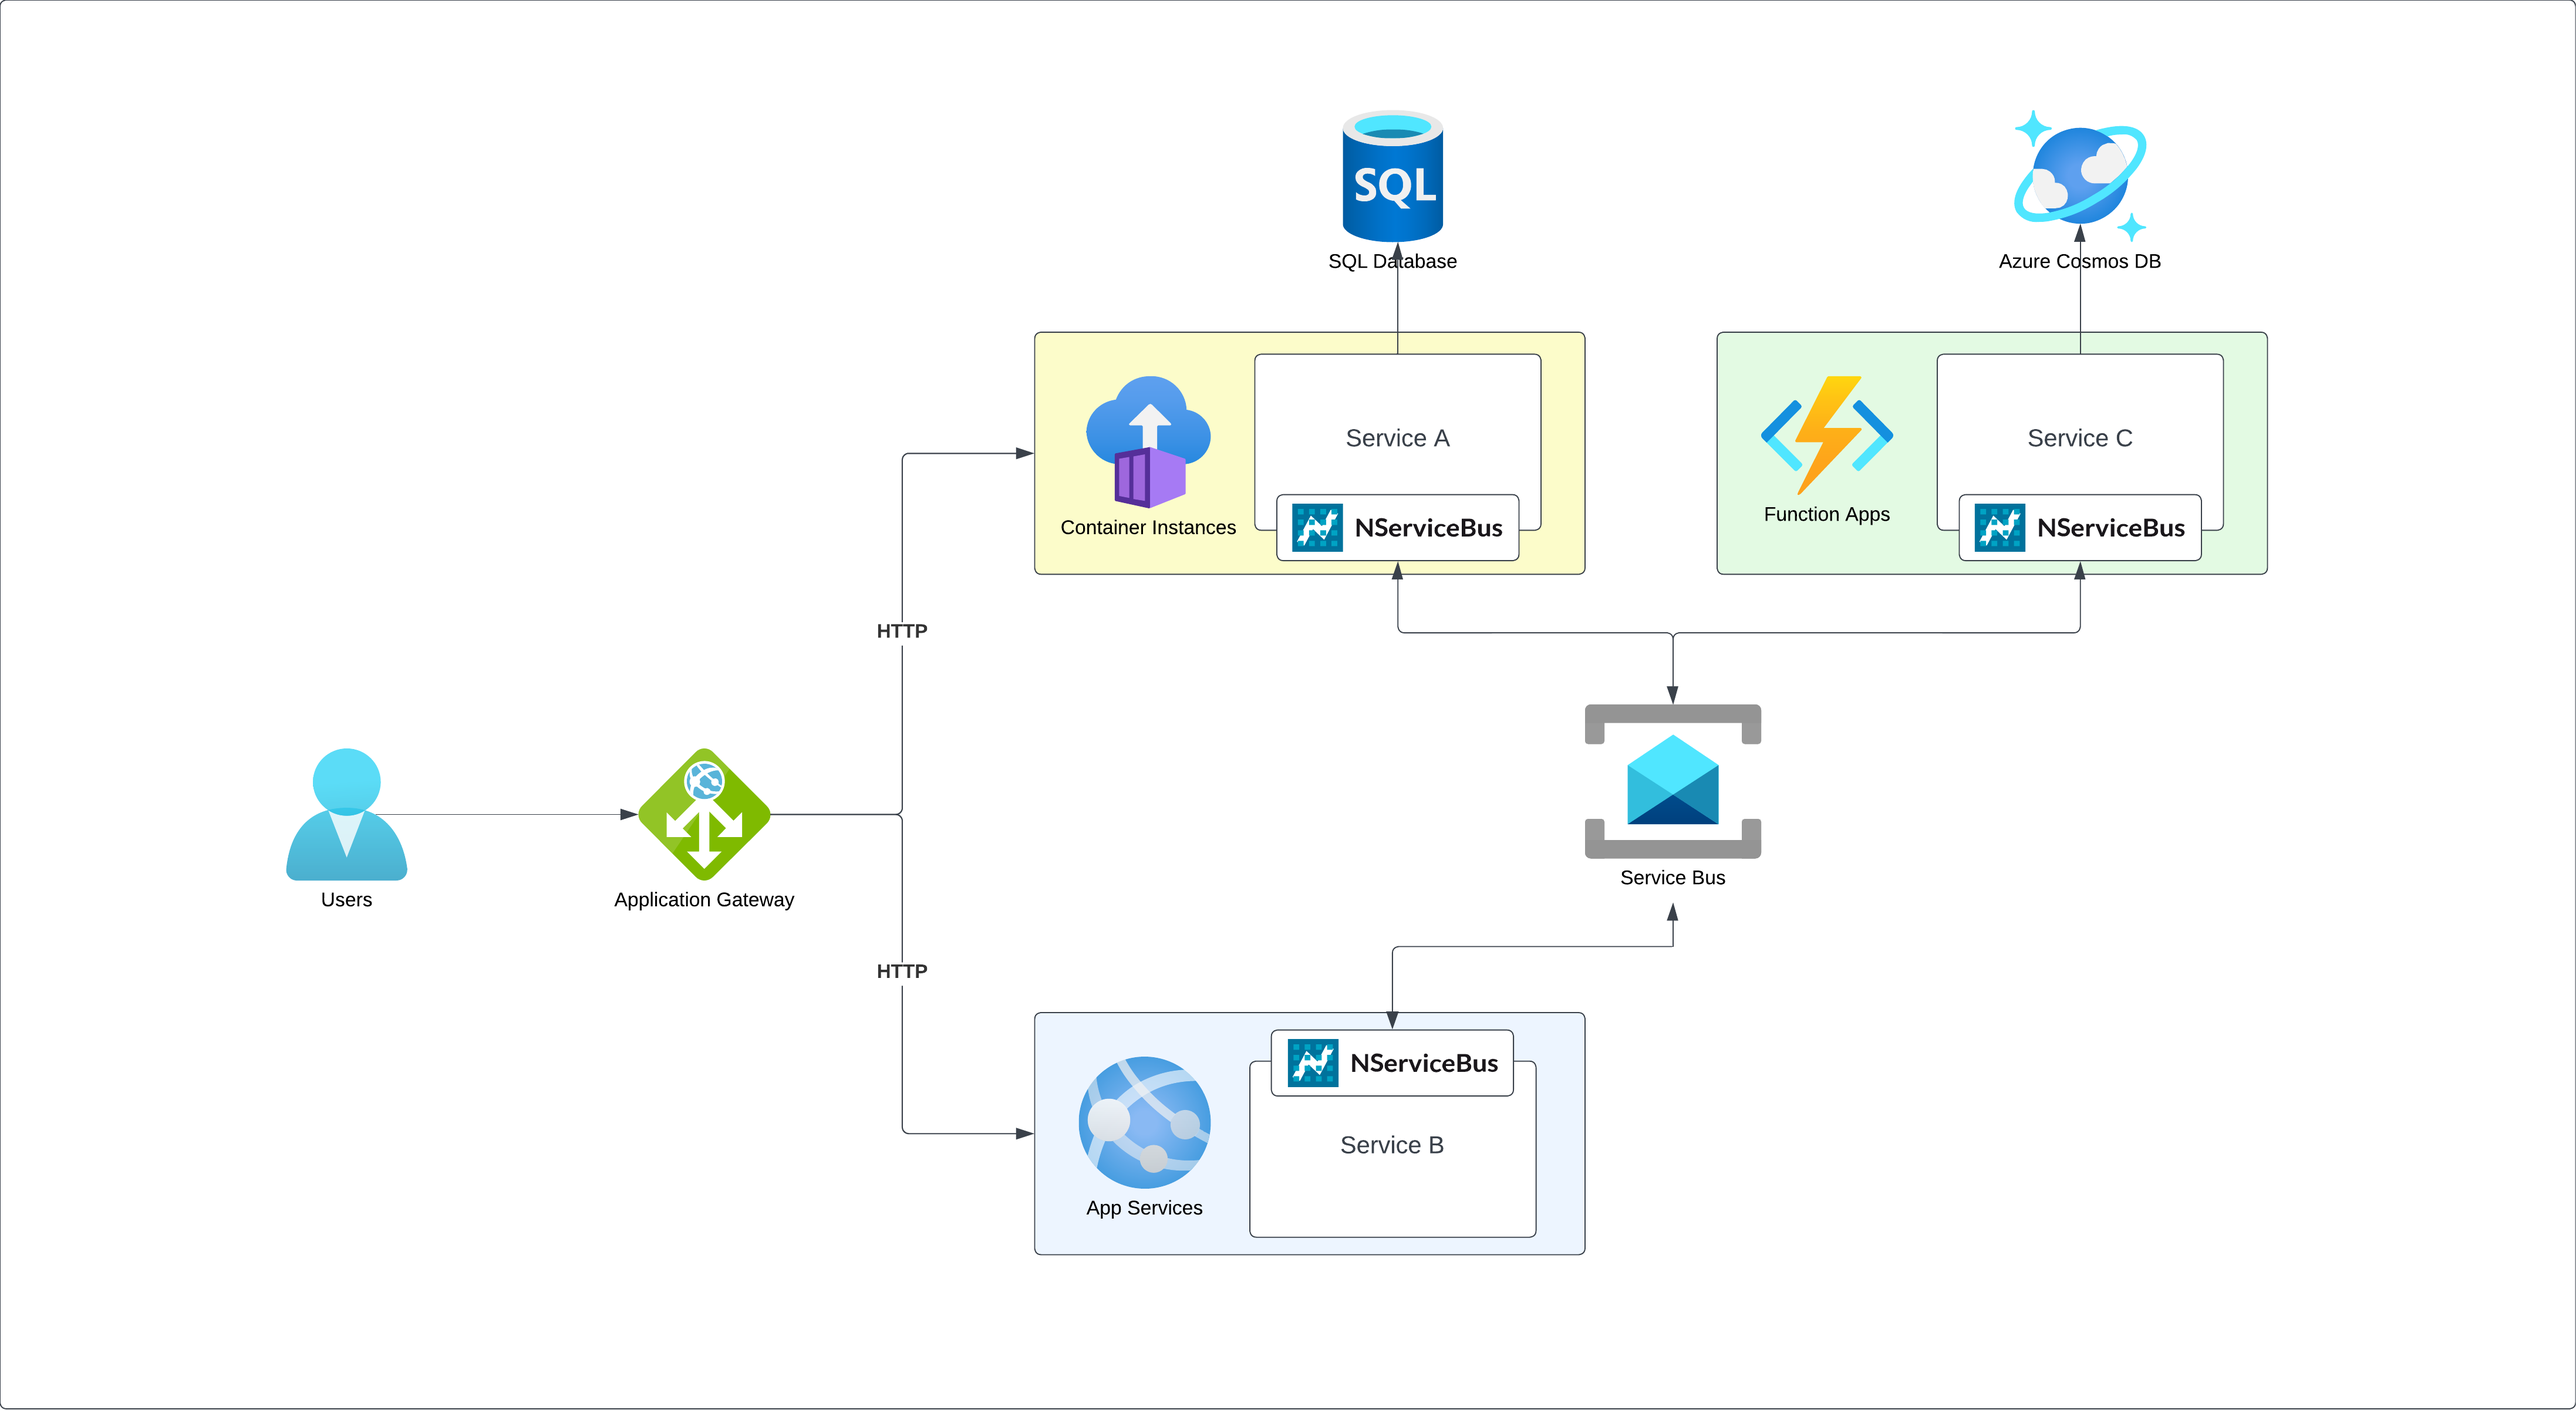
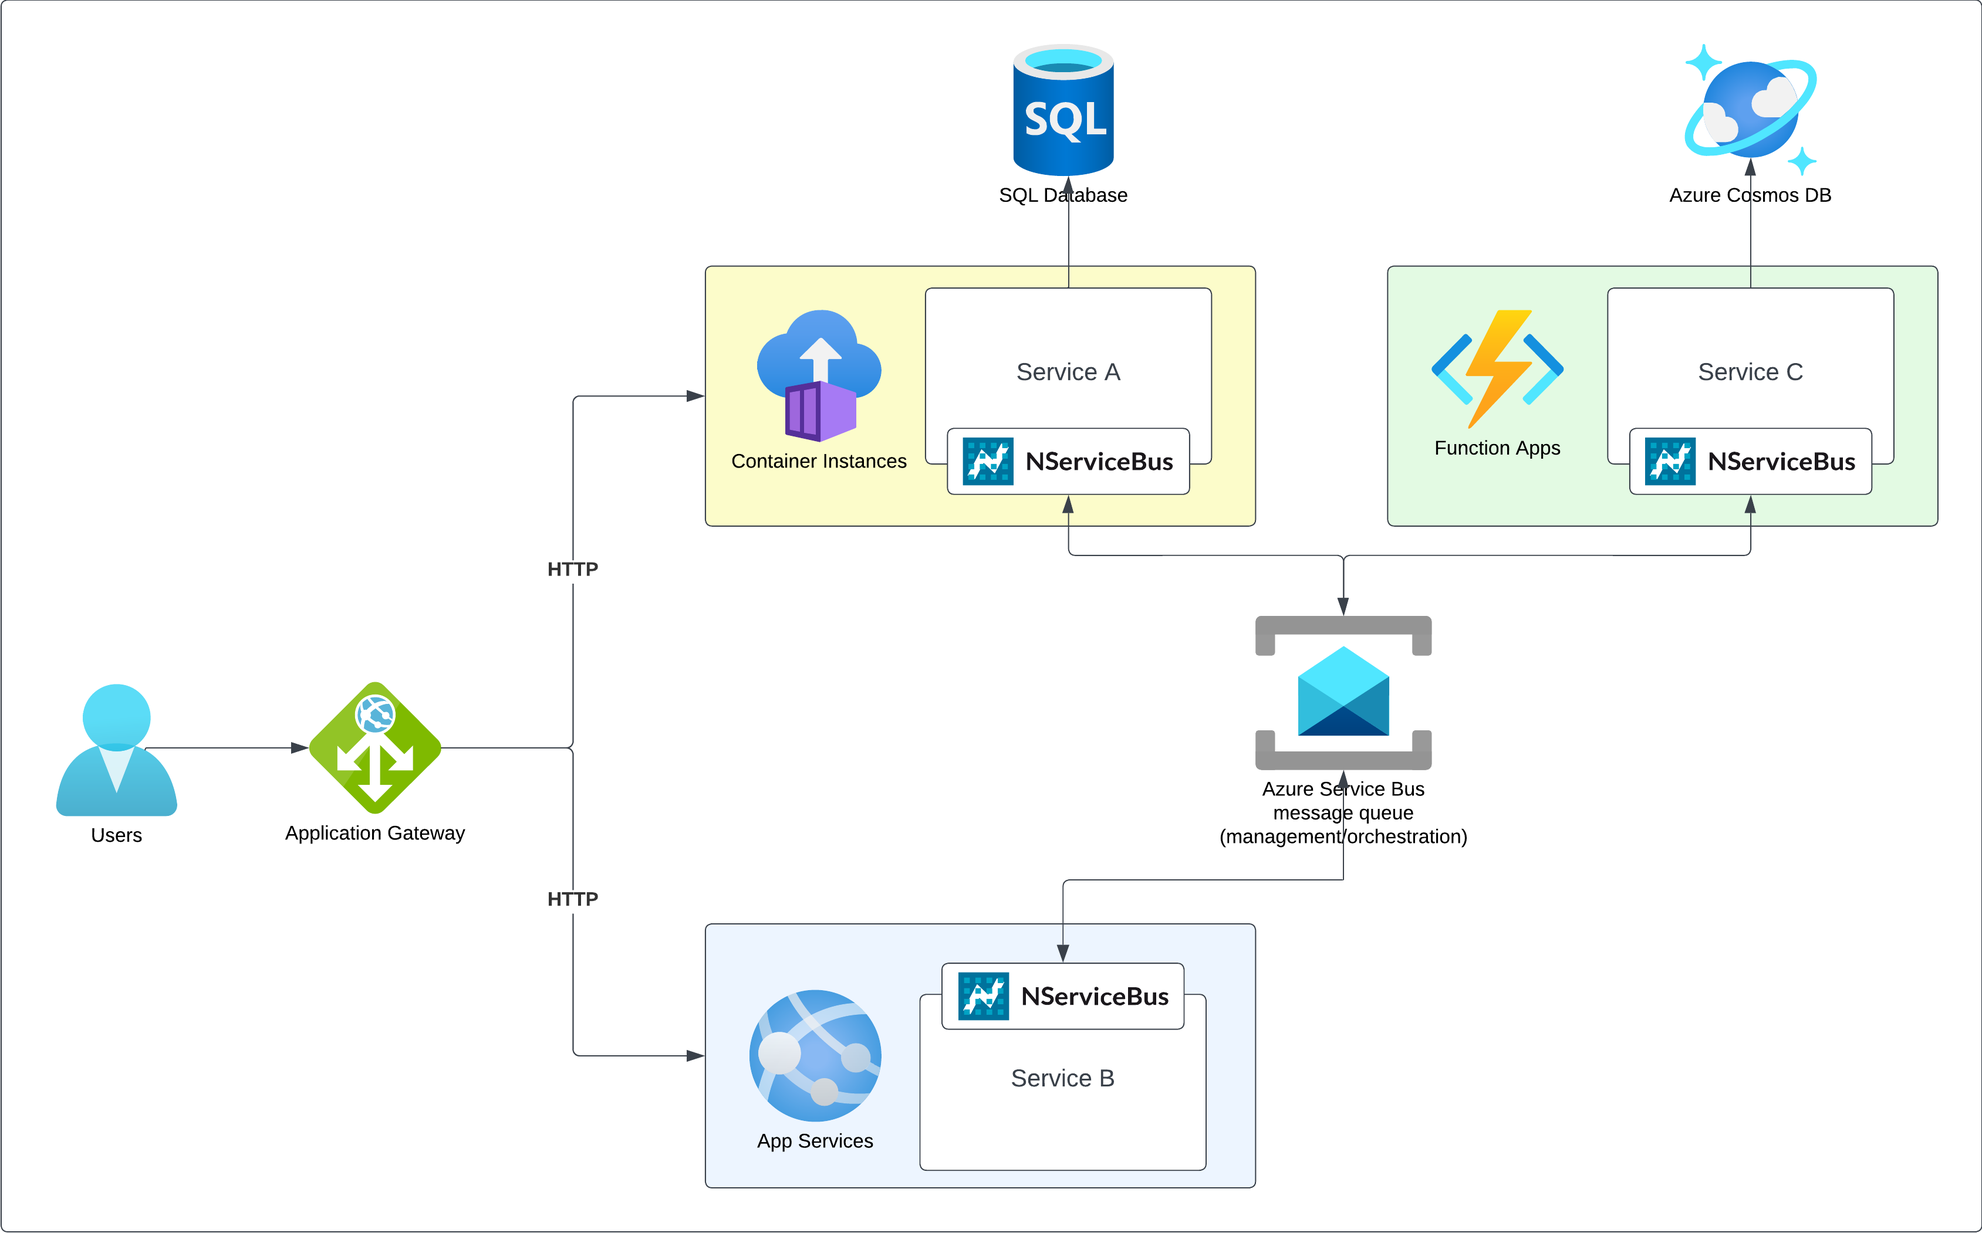
tweaks to Azure arch pages

diff --git a/architecture/azure/microservices.md b/architecture/azure/microservices.md
@@ -4,39 +4,39 @@ summary:
 reviewed: 2023-07-18
 ---
 
+The Azure Architecture Center describes the [microservice architecture style](https://learn.microsoft.com/en-us/azure/architecture/guide/architecture-styles/microservices) as consisting of a collection of small, autonomous services.
+
+The Particular Service Platform implements the [messaging patterns](/nservicebus/messaging/) required to allow each [NServiceBus endpoint](/nservicebus/endpoints) to act as one of these autonomous services.
+
 ![](azure-microservices.png)
 
-[Microservices architectures](https://learn.microsoft.com/en-us/azure/architecture/guide/architecture-styles/microservices) structure applications as a collection of small, independently deployable, looosely coupled, and autonomous services. The microservice style is suitable for more complex scenarios where multiple teams are involved building large scale distributed systems.
+## Components
 
-## Architecture components
+* [NServiceBus endpoint](/nservicebus/endpoints) (service): Each service is an autonomously deployable and scalable unit with a private [data store](data-stores.md).
+* Azure Service Bus message queue: The message queue is an asynchronous, reliable, and fault-tolerant communication channel which decouples the services.
+* Gateway: A gateway is a facade which allows user technologies such as web browsers to decouple from service implementations. Gateways may also provide further operational facilities, but do not contain domain-specific logic. Azure offers a [range of gateway services](https://learn.microsoft.com/en-us/azure/architecture/microservices/design/gateway).
 
-Microservices architectures often contain the following components:
+## Challenges
 
-* Services: Each service is an autonomously deployable and scalable unit that has its own, private [data storage](data-stores.md).
-* [Message broker](messaging.md): Asynchronous communication via messaging provides the necessary decoupling between services while providing a reliable and fault-tolerant communication channel.
-* Gateway: Gateways act as a facade to the user, hiding the the actual service implementations to the public. Gateways can also take on further operational responsiblities and cross-cutting concerns, but should not contain domain-specific logic. Azure offers a [range of different gateway services](https://learn.microsoft.com/en-us/azure/architecture/microservices/design/gateway).
+### Service boundaries
 
-## Microservice challenges
-
-### Finding service boundaries
-
-Finding the right service boundaries is one of the biggest challenges of any microservice architecture. Incorrect boundaries will lead violation of data isolation and excessive inter-service communication. This can lead to high coupling between services in order to implement a business processes, often referred to as a distributed monolith. Focusing on domain partitioning instead of technical partitioning is crucial to define autonomous service boundaries.
+Finding good service boundaries is one of the biggest challenges with the microservice architectural style. Suboptimal boundaries often lead to a lack of data isolation and excessive inter-service communication. This often leads to high coupling between services which implement a business processes, sometimes referred to as a distributed monolith. To define autonomous services, it is crucial to focus on domain (business concept) boundaries rather than technical boundaries.
 
 <iframe allowfullscreen frameborder="0" height="300" mozallowfullscreen src="https://player.vimeo.com/video/113515335" webkitallowfullscreen width="400"></iframe>
 
-In this presentation Udi Dahan explains the process of finding the right service boundaries. The presentation explains challenges with traditional layered architectures and covers an approach that cuts across all application layers, outlining the inherent lines of loose and tight coupling. Finally, Udi shows how these vertical services collaborate using events, enabling flexible and high performance business processes.
+In this presentation, Udi Dahan demonstrates the process of finding good service boundaries. He explains the challenges of traditional layered architectures and covers an approach that cuts across all application layers, outlining the natural lines of loose and tight coupling. Finally, Udi shows how these vertical slices collaborate using events, enabling flexible and high performance business processes.
 
 [**Blog post: Goodbye microservices, hello right-sized services →**](https://particular.net/blog/goodbye-microservices-hello-right-sized-services)
 
-###  RPC vs. Messaging
+### RPC vs. messaging
 
-Communication across services is much slower and error-prone due to network limitations compared to communication between modules inside a single process. This can lead to higher latency and increased risk of being affected by network outages. Implementing cross-service interactions using asynchronous communication patterns help to mitigate these risks.
+Communication between services is much slower and error-prone due to network limitations compared to communication between modules inside a single process. This can lead to higher latency and increased impact of network outages. Asynchronous communication between services helps to mitigate these risks.
 
 [**Read more about this topic: RPC vs. Messaging – which is faster?  →**](https://particular.net/blog/rpc-vs-messaging-which-is-faster)
 
-### User interfaces
+### User interfaces TODO (adam): continue here
 
-Users interacting with the system often need to see data aggregated from multiple services. Maintaining high decoupling across services while providing meaningful user experiences. A wide range of technologies and patterns exist that are focusing on this problem type, e.g. Microfrontends, GrapQL, ViewModel Composition, etc.
+Users interacting with the system often need to see data aggregated from multiple services. Maintaining high decoupling across services while providing meaningful user experiences. A wide range of technologies and patterns exist that are focusing on this problem type, e.g. [microfrontends](https://en.wikipedia.org/wiki/Microfrontend), [GraphQL](https://graphql.org/), [ViewModel Composition](https://www.viewmodelcomposition.com), etc.
 
 ## Microservice technologies
 
@@ -60,4 +60,4 @@ Containerized applications can be hosted in managed container orchestration plat
 
 ## Related content
 
-* [Azure Architecture Center: Microservice architecture style](https://learn.microsoft.com/en-us/azure/architecture/guide/architecture-styles/microservices)
+* [Azure Architecture Center—Microservice architecture style](https://learn.microsoft.com/en-us/azure/architecture/guide/architecture-styles/microservices)

diff --git a/architecture/azure/event-driven-architecture.md b/architecture/azure/event-driven-architecture.md
@@ -4,27 +4,29 @@ summary:
 reviewed: 2023-07-18
 ---
 
-The Azure Architecture Center describes [event-driven architecture style](https://learn.microsoft.com/en-us/azure/architecture/guide/architecture-styles/event-driven) as consisting of event producers and event consumers which can use the [publish/subscribe](https://learn.microsoft.com/en-us/azure/architecture/patterns/publisher-subscriber) (also called pub/sub) model.
+The Azure Architecture Center describes the [event-driven architecture style](https://learn.microsoft.com/en-us/azure/architecture/guide/architecture-styles/event-driven) as consisting of event producers and event consumers which can use the [publish/subscribe](https://learn.microsoft.com/en-us/azure/architecture/patterns/publisher-subscriber) (also called pub/sub) model.
 
-The Particular Service Platform implements [pub/sub](/nservicebus/messaging/publish-subscribe/), with each NServiceBus [endpoint](/nservicebus/endpoints) acting as a publisher (event producer) and/or subscriber (endpoint consumer).
+The Particular Service Platform implements [pub/sub](/nservicebus/messaging/publish-subscribe/), with each [NServiceBus endpoint](/nservicebus/endpoints) acting as a publisher (event producer) and/or subscriber (endpoint consumer).
 
-![](event-driven-architecture.png)
-
-Event-driven architectures contain decoupled event processing components that asychronously receive and process messages. Using publish/subscribe communication decouples components.
+![](azure-event-driven-architecture.png)
 
 ### Components
 
-* NServiceBus Publisher (event producer): Publishes events with business meaning in a reliable fire-and-forget style and has no knowledge of subscribers (there may be none).
-* NServiceBus Subscriber (event consumer): Subscribed to a specific event type and reacts to it. A subscriber may also be an event publisher, since processing an event may lead to publishing more events.
+* NServiceBus publisher (event producer): Publishes events with business meaning in a reliable fire-and-forget style and has no knowledge of subscribers (there may be none).
+* NServiceBus subscriber (event consumer): Subscribed to a specific event type and reacts to it. A subscriber may also be an event publisher, since processing an event may lead to publishing more events.
 * Azure Service Bus message queue: The message queue brings together publisher and subscriber without them explicitly referencing or depending on each other.
 
 ### Challenges
 
 * Event order: Subscribers cannot rely on the order they receive published events, which may be affected by many factors such as concurrency, scaling, retries, partitioning, etc. Events and subscribers should be designed so that they [do not rely on strict ordering to execute business processes](https://particular.net/blog/you-dont-need-ordered-delivery).
-* Event data: messages passing through service boundaries should not contain any data. If they do, that may be an indication of sub-optimal service boundaries, perhaps drawn along technical constraints rather than business rules. Events should be designed as [lightweight contracts](https://particular.net/blog/putting-your-events-on-a-diet).
+* Event data: messages passing through service boundaries should not contain any data. If they do, that may indicate sub-optimal service boundaries, perhaps drawn along technical constraints rather than business rules. Events should be designed as [lightweight contracts](https://particular.net/blog/putting-your-events-on-a-diet).
 
 ### Technology choices
 
-In event-driven architectures, components are decoupled, allowing the most suitable [compute](compute.md) and [data store](data-stores.md) option to be chosen for a specific component or set of components.
+In event-driven architectures, components are decoupled, allowing choice of the most suitable [compute](compute.md) and [data store](data-stores.md) options for a specific component or set of components.
 
 The message queue must support the pub/sub model. NServiceBus provides pub/sub for [both Azure Service Bus and Azure Storage Queues](messaging.md).
+
+## Related content
+
+* [Azure Architecture Center—Event-driven architecture style](https://learn.microsoft.com/en-us/azure/architecture/guide/architecture-styles/event-driven)

diff --git a/architecture/azure/web-queue-worker.md b/architecture/azure/web-queue-worker.md
@@ -24,3 +24,7 @@ The main components are:
 ### Technology choices
 
 Web-Queue-Worker architectures can make use of Azure's managed services like Azure App Services and Azure Functions, Cosmos DB, Azure SQL, Azure Service Bus and Azure Queue Storage.
+
+## Related content
+
+* [Azure Architecture Center—Web-queue-worker architecture style](https://learn.microsoft.com/en-us/azure/architecture/guide/architecture-styles/web-queue-worker)

diff --git a/architecture/azure/compute.md b/architecture/azure/compute.md
@@ -18,7 +18,7 @@ The most popular Azure hosting options supported by NServiceBus are:
 
 [Explore all available NServiceBus hosting options](/nservicebus/hosting/selecting.md).
 
-![](compute-overview.png)
+![](azure-compute-overview.png)
 
 The right hosting option may depend on desired characteristics like:
 

diff --git a/architecture/azure/n-tier.md b/architecture/azure/n-tier.md
@@ -27,3 +27,7 @@ Front end layers often need to react to changes that were triggered by other use
 ### Technology choices
 
 TBD
+
+## Related content
+
+* [Azure Architecture Center—N-tier architecture style](https://learn.microsoft.com/en-us/azure/architecture/guide/architecture-styles/n-tier)
